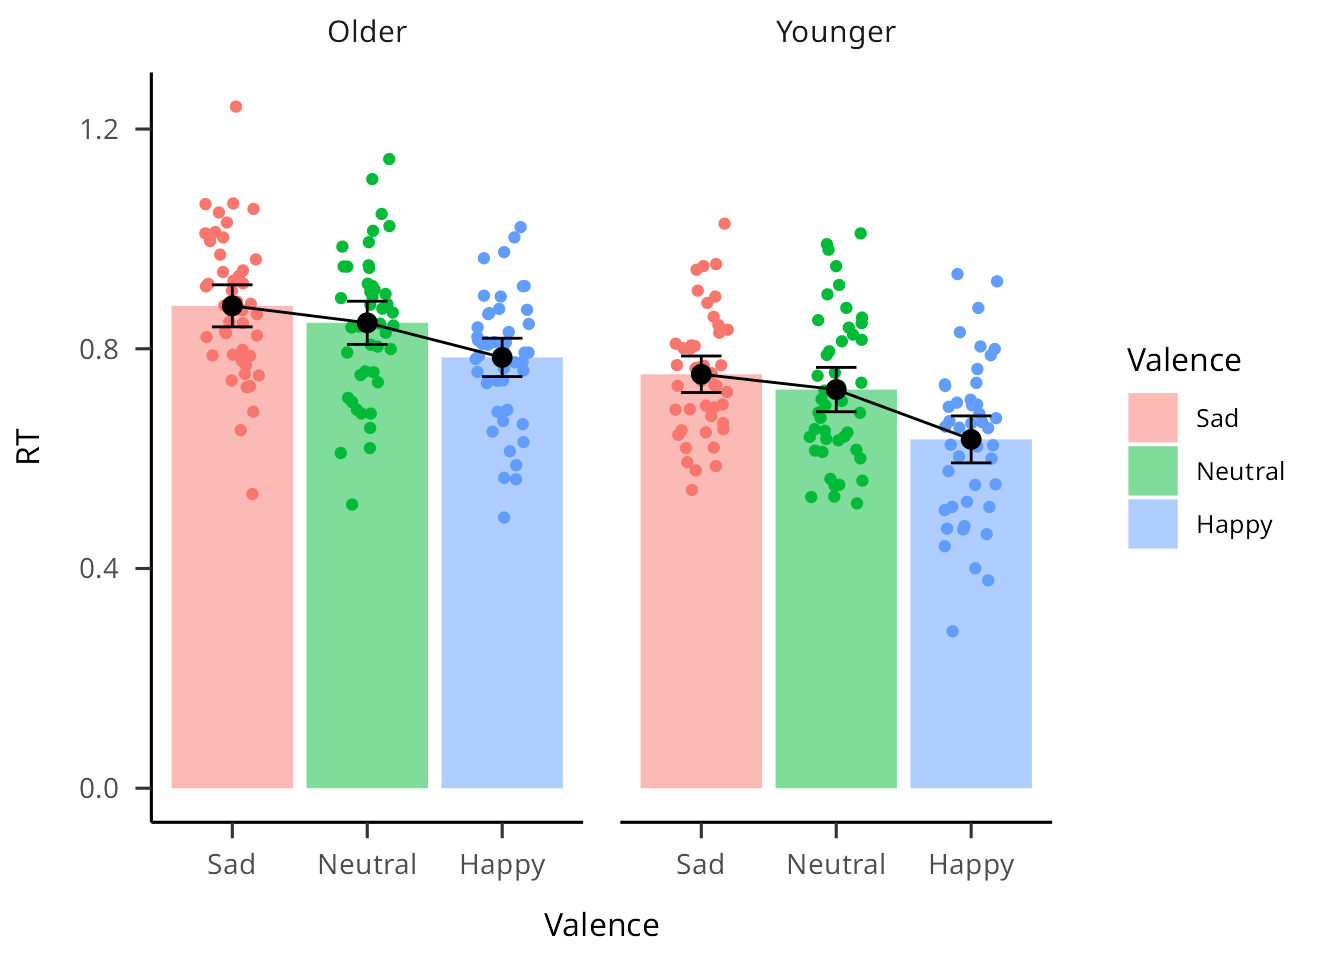
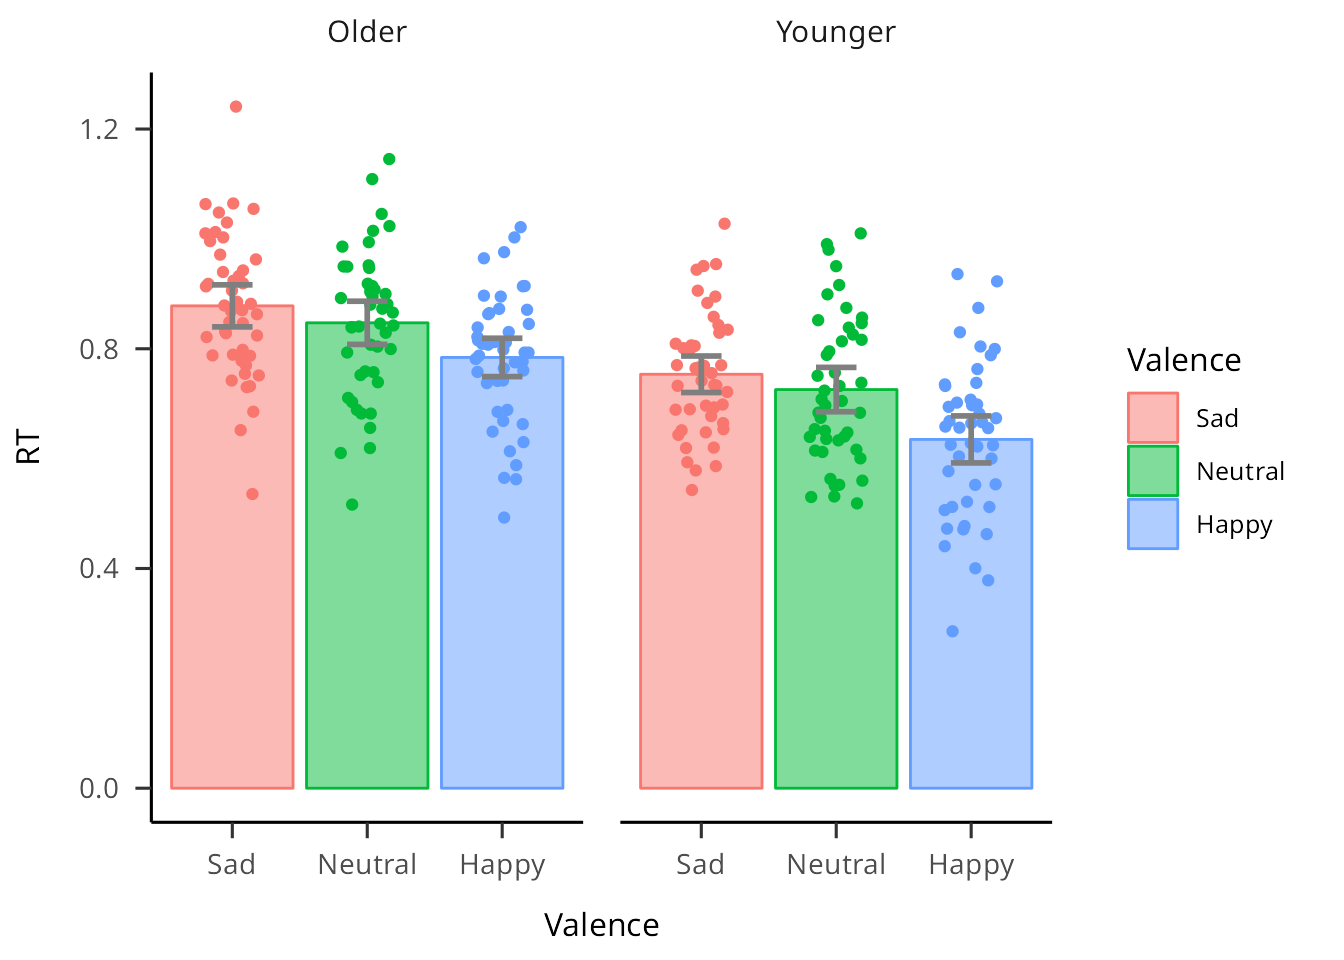
extend basic plotting vignette

diff --git a/docs/articles/basic-plotting.html b/docs/articles/basic-plotting.html
@@ -174,15 +174,15 @@ supposed to be APA-compliant. It comes from a package called
 <span>  <span class="fu"><a href="https://ggplot2.tidyverse.org/reference/facet_grid.html" class="external-link">facet_grid</a></span><span class="op">(</span><span class="op">~</span><span class="va">Age</span><span class="op">)</span><span class="op">+</span></span>
 <span>  <span class="fu"><a href="https://rdrr.io/pkg/papaja/man/theme_apa.html" class="external-link">theme_apa</a></span><span class="op">(</span><span class="op">)</span></span></code></pre></div>
 <p><img src="basic-plotting_files/figure-html/unnamed-chunk-9-1.png" width="672"></p>
-<p>Let’s add raw data points - see how this is overkill?</p>
+<p>Let’s add raw data points</p>
 <div class="sourceCode" id="cb10"><pre class="downlit sourceCode r">
-<code class="sourceCode R"><span><span class="fu"><a href="https://ggplot2.tidyverse.org/reference/ggplot.html" class="external-link">ggplot</a></span><span class="op">(</span><span class="va">data_ala_age</span>, <span class="fu"><a href="https://ggplot2.tidyverse.org/reference/aes.html" class="external-link">aes</a></span><span class="op">(</span>y<span class="op">=</span><span class="va">RT</span>, x<span class="op">=</span><span class="va">Valence</span>, fill<span class="op">=</span><span class="va">Valence</span><span class="op">)</span><span class="op">)</span><span class="op">+</span></span>
-<span>  <span class="fu"><a href="https://ggplot2.tidyverse.org/reference/geom_jitter.html" class="external-link">geom_jitter</a></span><span class="op">(</span>width<span class="op">=</span><span class="fl">0.2</span>, height<span class="op">=</span><span class="fl">0</span>, show.legend <span class="op">=</span> <span class="cn">F</span>, <span class="fu"><a href="https://ggplot2.tidyverse.org/reference/aes.html" class="external-link">aes</a></span><span class="op">(</span>color<span class="op">=</span><span class="va">Valence</span>, fill<span class="op">=</span><span class="va">Valence</span><span class="op">)</span><span class="op">)</span><span class="op">+</span></span>
+<code class="sourceCode R"><span><span class="fu"><a href="https://ggplot2.tidyverse.org/reference/ggplot.html" class="external-link">ggplot</a></span><span class="op">(</span><span class="va">data_ala_age</span>, <span class="fu"><a href="https://ggplot2.tidyverse.org/reference/aes.html" class="external-link">aes</a></span><span class="op">(</span>y<span class="op">=</span><span class="va">RT</span>, x<span class="op">=</span><span class="va">Valence</span>, colour<span class="op">=</span><span class="va">Valence</span>, fill<span class="op">=</span><span class="va">Valence</span><span class="op">)</span><span class="op">)</span><span class="op">+</span></span>
+<span>  <span class="fu"><a href="https://ggplot2.tidyverse.org/reference/geom_jitter.html" class="external-link">geom_jitter</a></span><span class="op">(</span>width<span class="op">=</span><span class="fl">0.2</span>, height<span class="op">=</span><span class="fl">0</span>, show.legend <span class="op">=</span> <span class="cn">F</span><span class="op">)</span><span class="op">+</span></span>
 <span>  <span class="fu"><a href="https://ggplot2.tidyverse.org/reference/stat_summary.html" class="external-link">stat_summary</a></span><span class="op">(</span>geom<span class="op">=</span><span class="st">"bar"</span>, fun<span class="op">=</span><span class="st">"mean"</span>, alpha<span class="op">=</span><span class="fl">0.5</span><span class="op">)</span><span class="op">+</span></span>
-<span>  <span class="fu"><a href="https://ggplot2.tidyverse.org/reference/stat_summary.html" class="external-link">stat_summary</a></span><span class="op">(</span>geom<span class="op">=</span><span class="st">"line"</span>, fun<span class="op">=</span><span class="st">"mean"</span>, <span class="fu"><a href="https://ggplot2.tidyverse.org/reference/aes.html" class="external-link">aes</a></span><span class="op">(</span>group<span class="op">=</span><span class="fl">1</span><span class="op">)</span>, colour<span class="op">=</span><span class="st">"black"</span><span class="op">)</span><span class="op">+</span></span>
+<span>  <span class="co">#stat_summary(geom="line", fun="mean", aes(group=1), colour="black")+</span></span>
 <span>  <span class="fu"><a href="https://ggplot2.tidyverse.org/reference/stat_summary.html" class="external-link">stat_summary</a></span><span class="op">(</span>geom<span class="op">=</span><span class="st">'errorbar'</span>, width<span class="op">=</span><span class="fl">0.3</span>, fun.data <span class="op">=</span> <span class="va">mean_cl_normal</span>, </span>
-<span>               fun.args<span class="op">=</span><span class="fu"><a href="https://rdrr.io/r/base/list.html" class="external-link">list</a></span><span class="op">(</span>conf.int<span class="op">=</span><span class="fl">.95</span><span class="op">)</span>, show.legend <span class="op">=</span> <span class="cn">F</span><span class="op">)</span><span class="op">+</span></span>
-<span>  <span class="fu"><a href="https://ggplot2.tidyverse.org/reference/stat_summary.html" class="external-link">stat_summary</a></span><span class="op">(</span>geom<span class="op">=</span><span class="st">'point'</span>, fun<span class="op">=</span><span class="st">"mean"</span>, size<span class="op">=</span><span class="fl">3</span>, show.legend <span class="op">=</span> <span class="cn">F</span><span class="op">)</span><span class="op">+</span></span>
+<span>               fun.args<span class="op">=</span><span class="fu"><a href="https://rdrr.io/r/base/list.html" class="external-link">list</a></span><span class="op">(</span>conf.int<span class="op">=</span><span class="fl">.95</span><span class="op">)</span>, show.legend <span class="op">=</span> <span class="cn">F</span>, lwd<span class="op">=</span><span class="fl">1</span>, color<span class="op">=</span><span class="st">'grey50'</span><span class="op">)</span><span class="op">+</span></span>
+<span>  <span class="co">#stat_summary(geom='point', fun="mean", size=3, show.legend = F)+</span></span>
 <span>  <span class="fu"><a href="https://ggplot2.tidyverse.org/reference/facet_grid.html" class="external-link">facet_grid</a></span><span class="op">(</span><span class="op">~</span><span class="va">Age</span><span class="op">)</span><span class="op">+</span></span>
 <span>  <span class="fu"><a href="https://rdrr.io/pkg/papaja/man/theme_apa.html" class="external-link">theme_apa</a></span><span class="op">(</span><span class="op">)</span></span></code></pre></div>
 <p><img src="basic-plotting_files/figure-html/unnamed-chunk-10-1.png" width="672"></p>
@@ -194,13 +194,14 @@ points together with summary statistics.</p>
 <span>  <span class="fu"><a href="https://ggplot2.tidyverse.org/reference/geom_boxplot.html" class="external-link">geom_boxplot</a></span><span class="op">(</span>width<span class="op">=</span><span class="fl">0.25</span>, fatten<span class="op">=</span><span class="fl">0</span>, show.legend <span class="op">=</span> <span class="cn">F</span><span class="op">)</span><span class="op">+</span></span>
 <span>  <span class="co">#geom_dotplot(binaxis='y', binwidth=.025, stackdir='center', fill = "grey", dotsize=0.5, position=position_dodge(0.75)) +</span></span>
 <span>  <span class="fu"><a href="https://ggplot2.tidyverse.org/reference/geom_jitter.html" class="external-link">geom_jitter</a></span><span class="op">(</span>width<span class="op">=</span><span class="fl">0.05</span>, height<span class="op">=</span><span class="fl">0</span>, alpha<span class="op">=</span><span class="fl">0.2</span>, show.legend <span class="op">=</span> <span class="cn">F</span><span class="op">)</span><span class="op">+</span></span>
-<span>  <span class="fu"><a href="https://ggplot2.tidyverse.org/reference/facet_grid.html" class="external-link">facet_grid</a></span><span class="op">(</span><span class="op">~</span><span class="va">Age</span><span class="op">)</span><span class="op">+</span></span>
-<span>  <span class="co">#theme_classic()+</span></span>
-<span>  <span class="fu"><a href="https://rdrr.io/pkg/papaja/man/theme_apa.html" class="external-link">theme_apa</a></span><span class="op">(</span><span class="op">)</span></span></code></pre></div>
+<span>  <span class="fu"><a href="https://ggplot2.tidyverse.org/reference/facet_grid.html" class="external-link">facet_grid</a></span><span class="op">(</span><span class="op">~</span><span class="va">Age</span><span class="op">)</span></span></code></pre></div>
 <p><img src="basic-plotting_files/figure-html/unnamed-chunk-11-1.png" width="672"></p>
+<div class="sourceCode" id="cb12"><pre class="downlit sourceCode r">
+<code class="sourceCode R"><span>  <span class="co">#theme_classic()</span></span>
+<span>  <span class="co">#theme_apa()</span></span></code></pre></div>
 <p>Papaja has some APA-related plot styles which look nice, but the
 syntax is different.</p>
-<div class="sourceCode" id="cb12"><pre class="downlit sourceCode r">
+<div class="sourceCode" id="cb13"><pre class="downlit sourceCode r">
 <code class="sourceCode R"><span><span class="fu"><a href="https://rdrr.io/pkg/papaja/man/apa_beeplot.html" class="external-link">apa_beeplot</a></span><span class="op">(</span></span>
 <span>  data <span class="op">=</span> <span class="va">data_ala_age</span></span>
 <span>  , id <span class="op">=</span> <span class="st">"Participant"</span></span>
@@ -211,7 +212,7 @@ syntax is different.</p>
 <span>  , args_error_bars <span class="op">=</span> <span class="fu"><a href="https://rdrr.io/r/base/list.html" class="external-link">list</a></span><span class="op">(</span>length <span class="op">=</span> <span class="fl">0.2</span>, col <span class="op">=</span> <span class="st">"grey10"</span><span class="op">)</span></span>
 <span><span class="op">)</span></span></code></pre></div>
 <p><img src="basic-plotting_files/figure-html/unnamed-chunk-12-1.png" width="672"></p>
-<div class="sourceCode" id="cb13"><pre class="downlit sourceCode r">
+<div class="sourceCode" id="cb14"><pre class="downlit sourceCode r">
 <code class="sourceCode R"><span></span>
 <span><span class="fu"><a href="https://rdrr.io/pkg/papaja/man/apa_lineplot.html" class="external-link">apa_lineplot</a></span><span class="op">(</span></span>
 <span>  data <span class="op">=</span> <span class="va">data_ala_age</span></span>
@@ -222,7 +223,7 @@ syntax is different.</p>
 <span>  , args_error_bars <span class="op">=</span> <span class="fu"><a href="https://rdrr.io/r/base/list.html" class="external-link">list</a></span><span class="op">(</span>length <span class="op">=</span> <span class="fl">0.02</span>, col <span class="op">=</span> <span class="st">"grey20"</span><span class="op">)</span></span>
 <span><span class="op">)</span></span></code></pre></div>
 <p><img src="basic-plotting_files/figure-html/unnamed-chunk-12-2.png" width="672"></p>
-<div class="sourceCode" id="cb14"><pre class="downlit sourceCode r">
+<div class="sourceCode" id="cb15"><pre class="downlit sourceCode r">
 <code class="sourceCode R"><span></span>
 <span><span class="fu"><a href="https://rdrr.io/pkg/papaja/man/apa_barplot.html" class="external-link">apa_barplot</a></span><span class="op">(</span></span>
 <span>  data <span class="op">=</span> <span class="va">data_ala_age</span></span>
